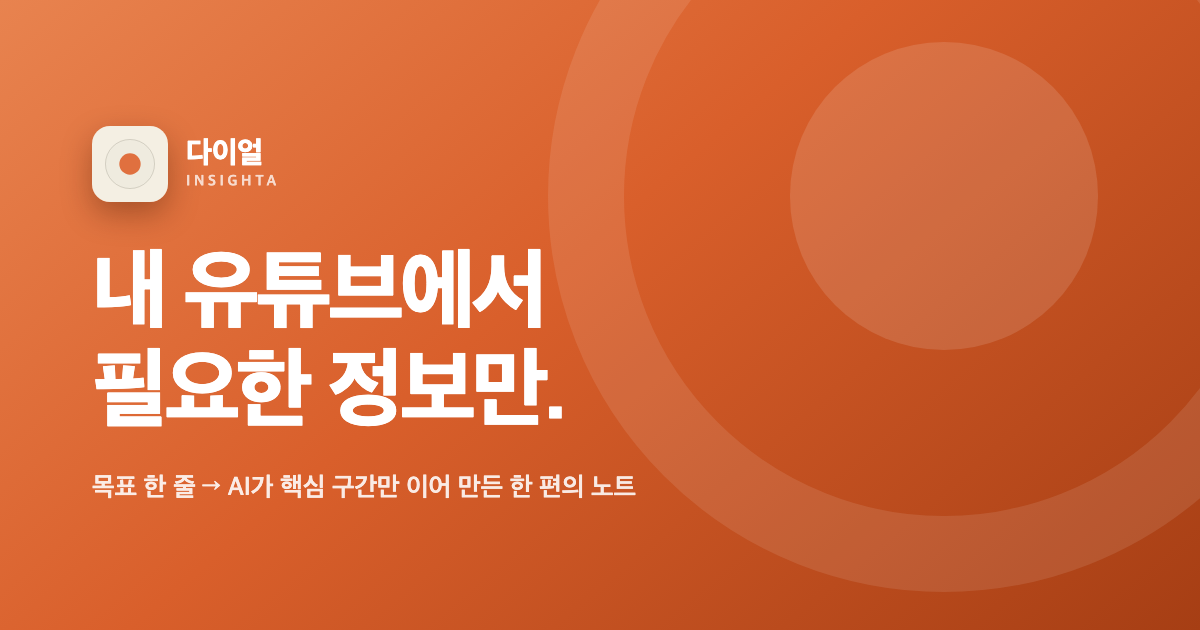
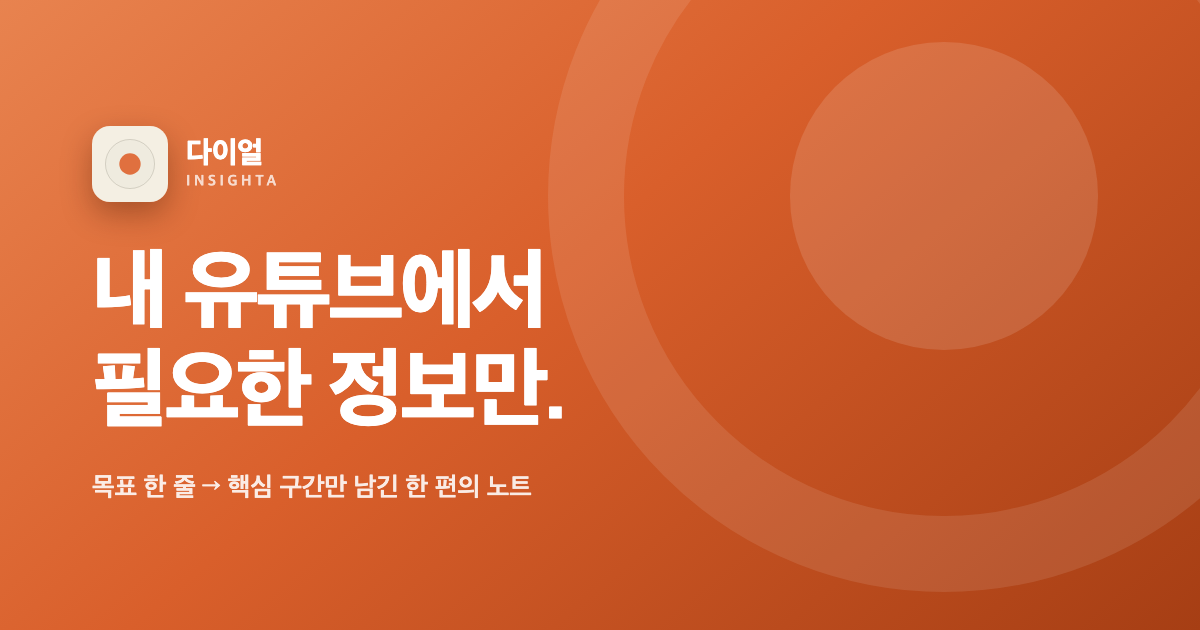
feat(landing): copy review pass + page share buttons on /dial
Copywriter-skill review: outcome-first descriptions (meta/og/twitter —
process narration demoted behind the benefit), og.png subline matches,
'샘플 에피소드' → '샘플 노트' (vocab sweep miss), forbidden-term grep 0
(팟캐스트/귀로/대목).

/dial gains its missing share affordance: '이 페이지 공유' in the hero
CTA row + a closing share CTA above the footer. navigator.share with
clipboard fallback + toast; share() called synchronously in the tap
handler (iOS gesture rule).

Changed region(s): [[0.185, 0.754, 0.5242, 0.8143]]

diff --git a/frontend/public/dial/index.html b/frontend/public/dial/index.html
@@ -4,20 +4,20 @@
 <meta charset="utf-8">
 <meta name="viewport" content="width=device-width, initial-scale=1, viewport-fit=cover">
 <title>다이얼 — 내 유튜브에서 필요한 정보만</title>
-<meta name="description" content="목표 한 줄이면 AI가 최적의 영상을 찾아 핵심 구간만 이어, 한 편의 노트로 만들어 드립니다.">
+<meta name="description" content="목표 한 줄이면, 내 유튜브의 핵심 구간만 남은 노트 한 편이 만들어집니다. 로그인 없이 샘플부터 들어보세요.">
 <link rel="icon" type="image/png" sizes="192x192" href="/mobile/icon-192.png">
 <link rel="apple-touch-icon" href="/mobile/icon-180.png">
 <meta property="og:type" content="website">
 <meta property="og:site_name" content="다이얼 — Insighta">
 <meta property="og:title" content="내 유튜브에서 필요한 정보만 — 다이얼">
-<meta property="og:description" content="목표 한 줄이면 AI가 최적의 영상을 찾아 핵심 구간만 이어, 한 편의 노트로. 지금 로그인 없이 샘플을 들어보세요.">
+<meta property="og:description" content="목표 한 줄이면, 내 유튜브의 핵심 구간만 남은 노트 한 편. 로그인 없이 샘플부터 들어보세요.">
 <meta property="og:url" content="https://insighta.one/dial/">
 <meta property="og:image" content="https://insighta.one/dial/og.png">
 <meta property="og:image:width" content="1200">
 <meta property="og:image:height" content="630">
 <meta name="twitter:card" content="summary_large_image">
 <meta name="twitter:title" content="내 유튜브에서 필요한 정보만 — 다이얼">
-<meta name="twitter:description" content="목표 한 줄이면 AI가 핵심 구간만 이어 한 편의 노트로.">
+<meta name="twitter:description" content="내 유튜브에서 필요한 정보만 — 핵심 구간만 남긴 노트 한 편.">
 <meta name="twitter:image" content="https://insighta.one/dial/og.png">
 </head>
 <body>
@@ -185,7 +185,8 @@
       한 편의 노트로 만들어 드립니다. 당신은 다이얼을 돌리기만 하세요.</p>
     <div class="cta">
       <a class="btn primary" href="https://insighta.one/mobile/">지금 들어보기</a>
-      <a class="btn ghost" href="https://insighta.one/mobile/">샘플 에피소드 · 로그인 없이</a>
+      <a class="btn ghost" href="https://insighta.one/mobile/">샘플 노트 · 로그인 없이</a>
+      <button class="btn ghost" id="bSharePage" type="button"><svg width="13" height="16" viewBox="0 0 15 18" aria-hidden="true" style="vertical-align:-3px;margin-right:6px"><path d="M7.5 1v10M4.2 4.2 7.5 1l3.3 3.2" fill="none" stroke="currentColor" stroke-width="1.6" stroke-linecap="round" stroke-linejoin="round"/><rect x="2" y="7.4" width="11" height="9.4" rx="2" fill="none" stroke="currentColor" stroke-width="1.6"/></svg>이 페이지 공유</button>
     </div>
   </div>
 </div>
@@ -295,8 +296,35 @@
   </div>
 </div></section>
 
+<section class="steps-sec" style="padding-top:0"><div class="wrap" style="text-align:center">
+  <button class="btn primary" id="bSharePage2" type="button">이 페이지를 카카오톡·메시지로 공유</button>
+</div></section>
+
 <footer><div class="wrap"><b>다이얼</b> — Insighta의 모바일 플레이어 · insighta.one · [email redacted]<br>
 원본 영상은 YouTube에서 재생되며 출처가 항상 표시됩니다 · 화면은 실제 앱, 시연 영상은 NASA Goddard "Tour of the Moon in 4K"(퍼블릭 도메인)입니다</div></footer>
 
+<script>
+(function(){
+  var URL_='https://insighta.one/dial/';
+  var DATA={title:'내 유튜브에서 필요한 정보만 — 다이얼', text:'목표 한 줄이면, 내 유튜브의 핵심 구간만 남은 노트 한 편.', url:URL_};
+  function toastMsg(m){
+    var t=document.createElement('div');
+    t.textContent=m;
+    t.style.cssText='position:fixed;left:50%;bottom:34px;transform:translateX(-50%);background:#2E2A23;color:#F6F2E7;font-size:13px;font-weight:700;border-radius:99px;padding:10px 18px;z-index:99;box-shadow:0 8px 22px rgba(0,0,0,.25)';
+    document.body.appendChild(t);
+    setTimeout(function(){ t.style.opacity='0'; t.style.transition='opacity .4s'; },1800);
+    setTimeout(function(){ if(t.parentNode) t.parentNode.removeChild(t); },2300);
+  }
+  function sharePage(){
+    if(navigator.share){ navigator.share(DATA).catch(function(){}); return; }
+    (navigator.clipboard?navigator.clipboard.writeText(URL_):Promise.reject())
+      .then(function(){ toastMsg('링크가 복사됐어요'); })
+      .catch(function(){ prompt('이 링크를 복사하세요', URL_); });
+  }
+  var b1=document.getElementById('bSharePage'), b2=document.getElementById('bSharePage2');
+  if(b1) b1.addEventListener('click', sharePage);
+  if(b2) b2.addEventListener('click', sharePage);
+})();
+</script>
 </body>
 </html>